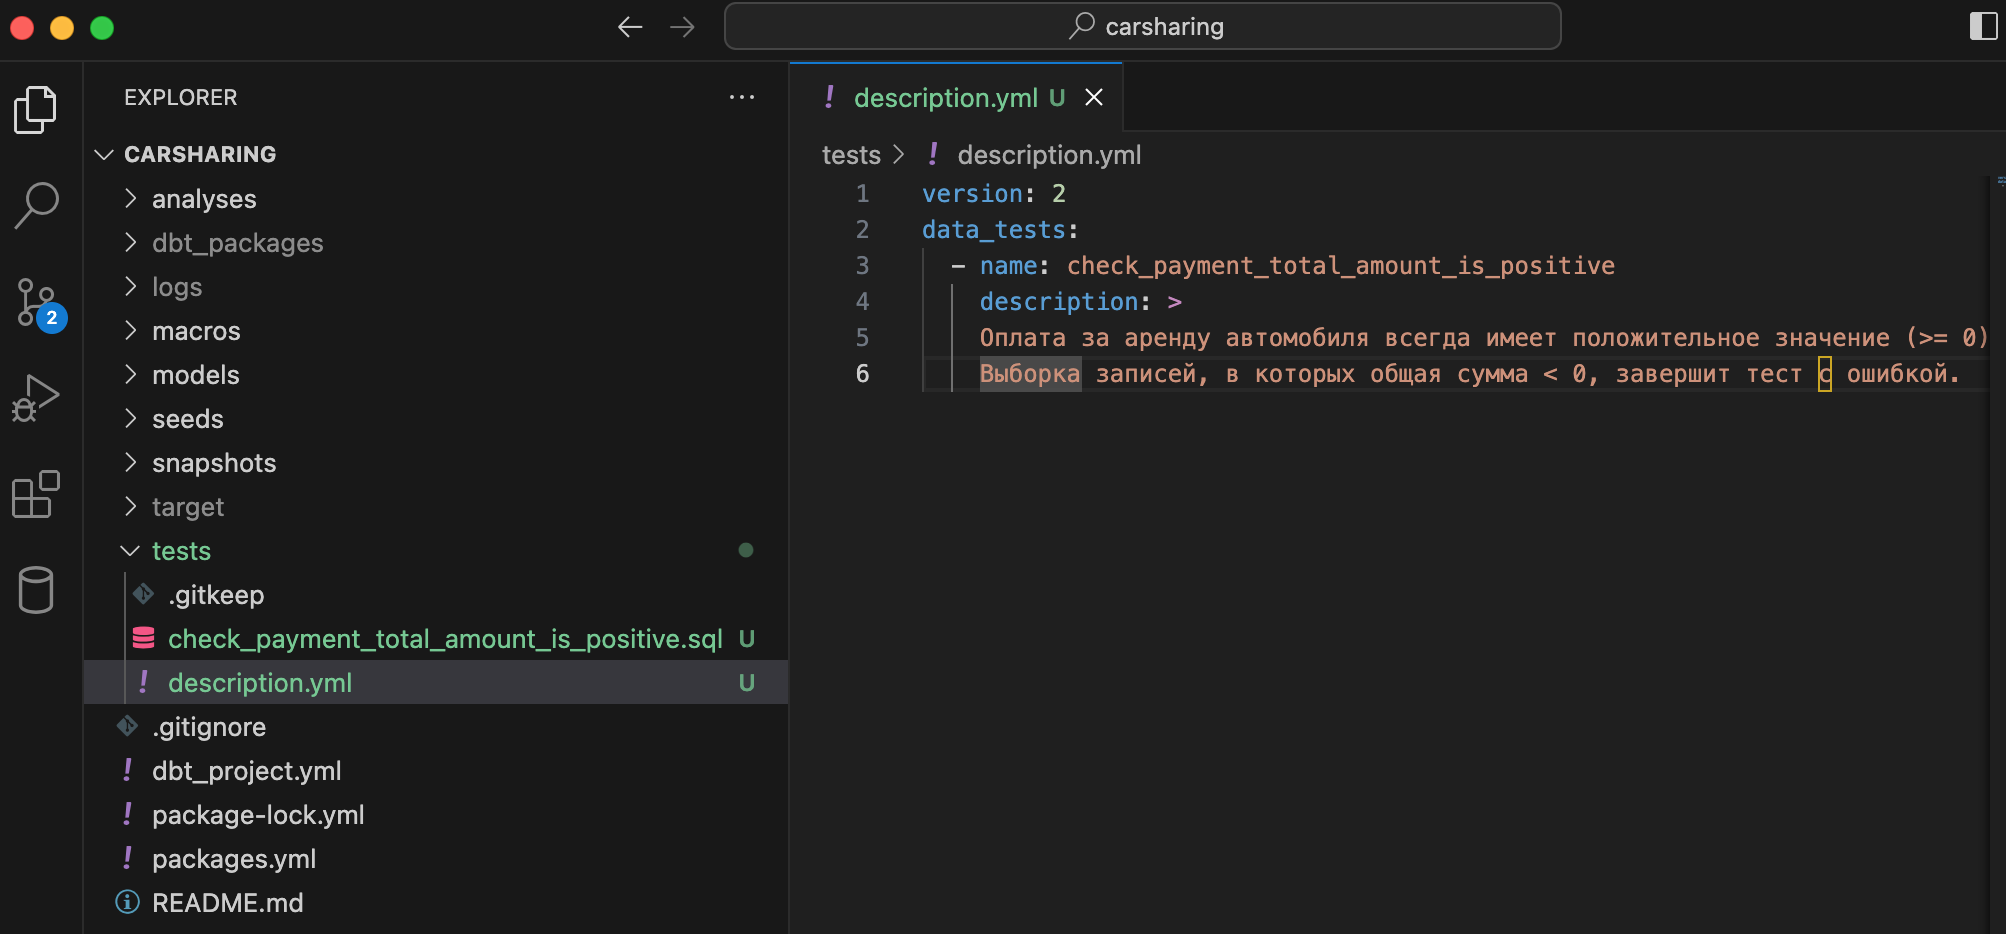
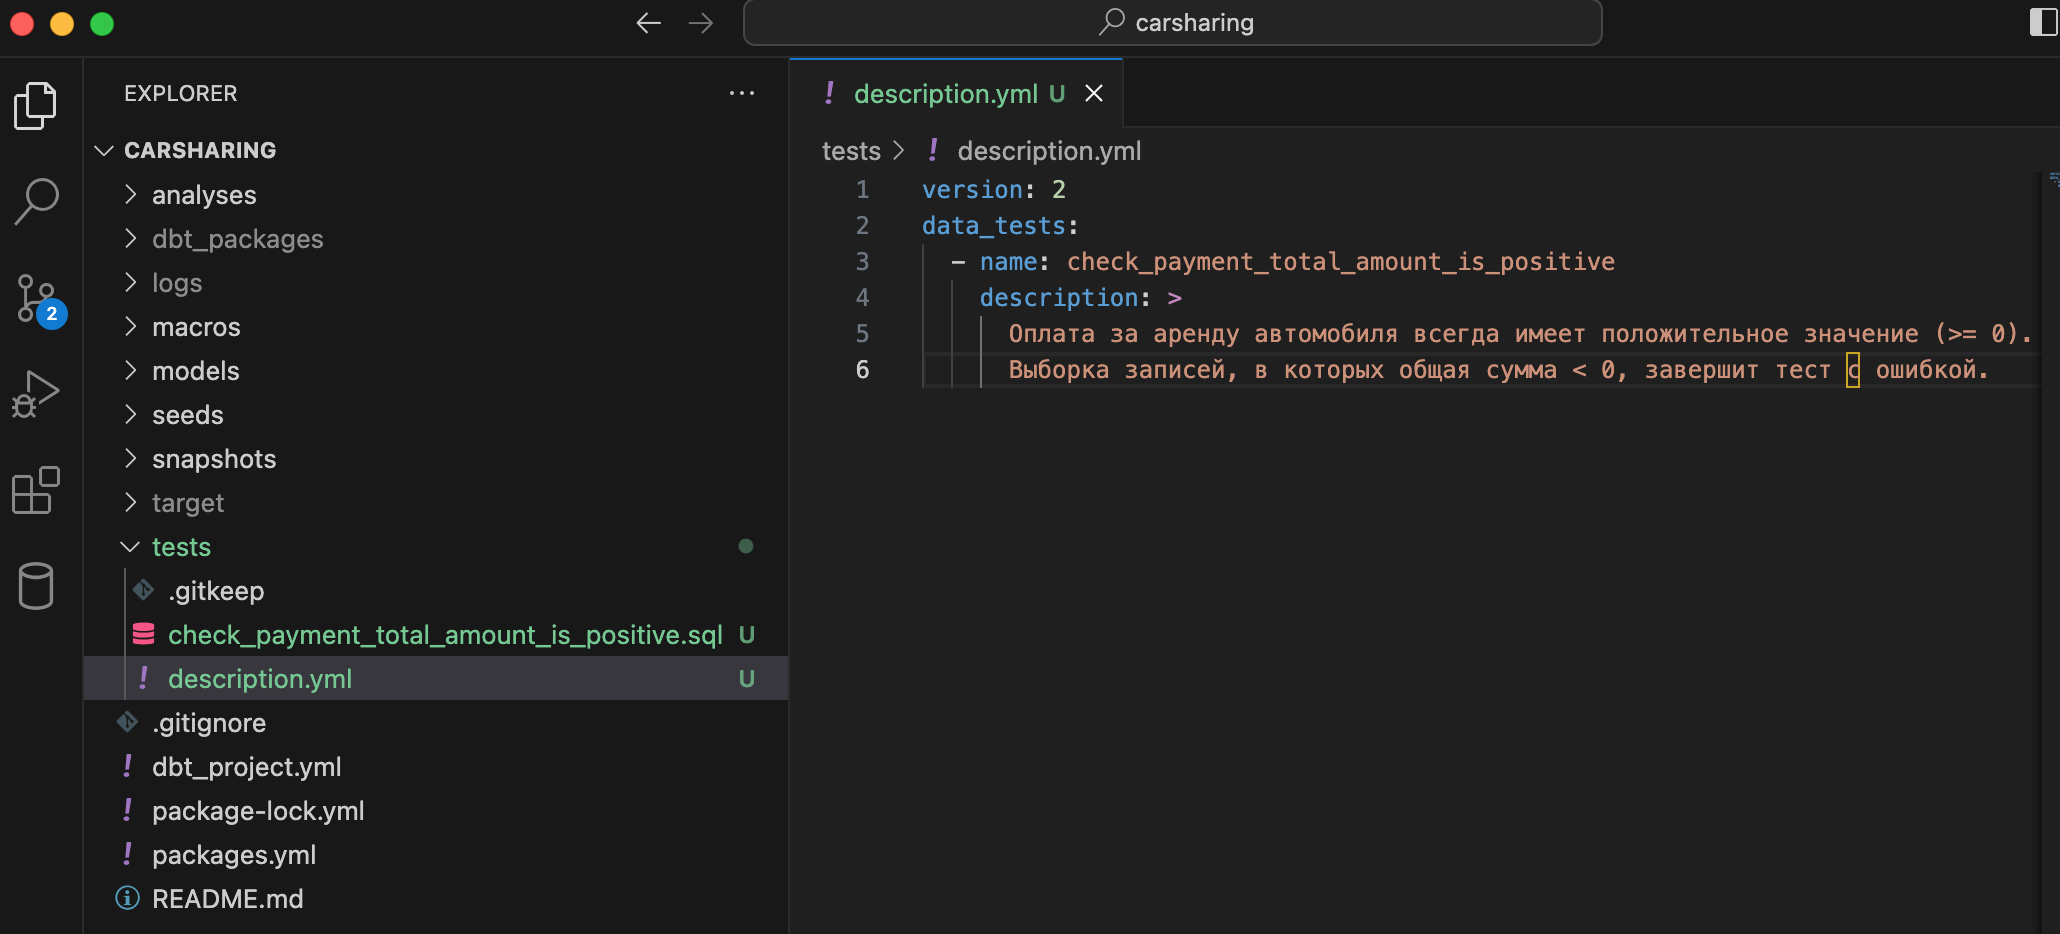
Update 4 files
- testirovanie-modeley.md
   - testirovanie-modeley-2.png
   - testirovanie-modeley-3.png
   - testirovanie-modeley.png

diff --git a/testirovanie-modeley.md b/testirovanie-modeley.md
@@ -29,7 +29,7 @@ title: Тестирование данных
 
 Тесты данных (data tests) предназначены для проверки целостности данных при каждом запуске проекта.
 
-При этом тесты на уровне данных бывают единичными (singular tests) и общими  (generic tests).
+При этом тесты на уровне данных бывают единичными (singular tests) и универсальными  (generic tests).
 
 ### Единичные тесты (singular tests)
 
@@ -47,13 +47,13 @@ title: Тестирование данных
 select
 
     payment_id,
-    sum(amount) as total_amount
+    sum(amount)
 
 from {{ ref('fct_payments') }}
 
 group by 1
 
-having total_amount < 0
+having sum(amount) < 0
 ```
 
 <note type="lab" title="Примечение">
@@ -79,8 +79,8 @@ version: 2
 data_tests:
   - name: check_payment_total_amount_is_positive
     description: >
-    Оплата за аренду автомобиля всегда имеет положительное значение (>= 0).
-	Выборка записей, в которых общая сумма < 0, завершит тест с ошибкой.
+      Оплата за аренду автомобиля всегда имеет положительное значение (>= 0).
+      Выборка записей, в которых общая сумма < 0, завершит тест с ошибкой.
 ```
 
 Пройдемся по параметрам файла:
@@ -101,12 +101,22 @@ data_tests:
 
 ![](./testirovanie-modeley-2.png "Рисунок 45. Описание единичных тестов (singular tests)"){width=2006px height=934px}
 
-Подобные тесты конечно хороши, но неудобны тем, что написаны под конкретную модель или даже столбец. Но вполне может такое быть, что логика проверки одной модели аналогична и для другой. Разница будет только в названии этой самой модели и, возможно, имени столбцов. В этом случае тест можно с уверенностью сказать, что такой тест не будет единичным. Для таких целей нужно использовать общие тесты данных (generic tests).
+Осталось запустить тест и убедиться, что данные в порядке, а заодно и ознакомиться с новой командой.
 
-### Общие тесты (generic tests)
+Запустите команду тестирования:
 
-Общие тесты по своей сути являются dbt-макросами.
+```sql
+dbt test 
+```
+
+![](./testirovanie-modeley-3.png "Рисунок 46. Запуск единичных тестов (singular tests)"){width=1022px height=389px}
+
+Подобные тесты конечно хороши, но неудобны тем, что написаны под конкретную модель или даже столбец. Но вполне может такое быть, что логика проверки одной модели аналогична и для другой. Разница будет только в названии этой самой модели и, возможно, имени столбцов. В этом случае можно с уверенностью сказать, что такой тест уже не будет единичным. Для таких целей нужно использовать универсальные тесты данных (generic tests).
+
+### Универсальные тесты (generic tests)
+
+Универсальные тесты по своей сути повторяют функциональность dbt-макросов с параметрами, что позволяет применять одни и те же тесты к различным моделям. Но в отличие от макроса, код-блок которого начинается с ключевого слова `macro`, универсальные тесты начинаются ключевого слова `test`.
+
+Прямо из коробки
 
 ## Модульные тесты (unit tests)
-
-
